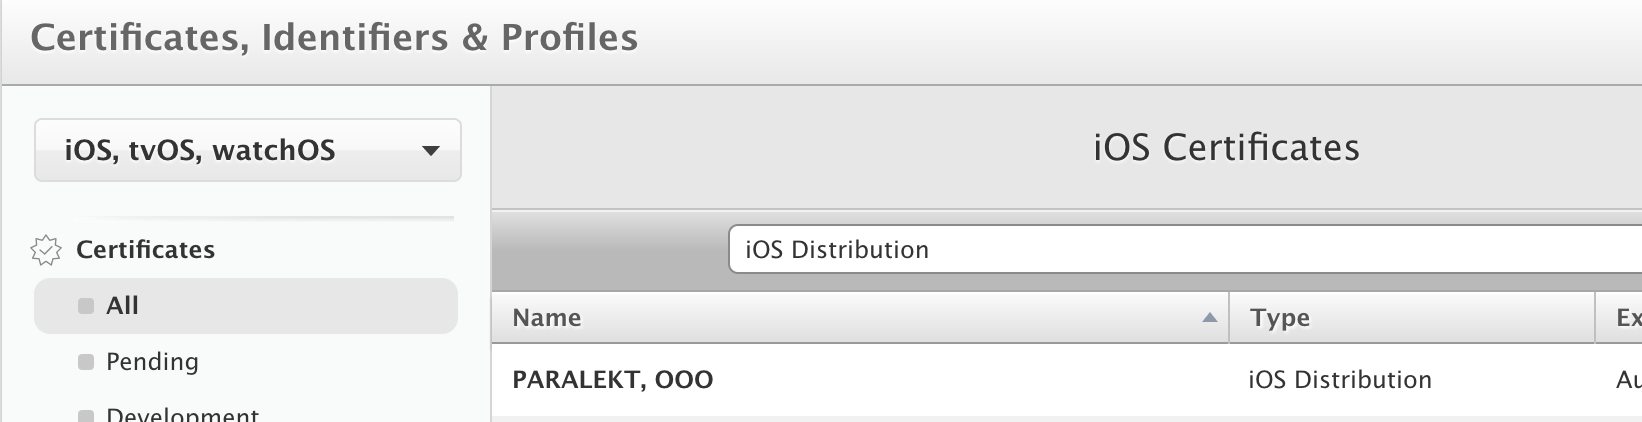
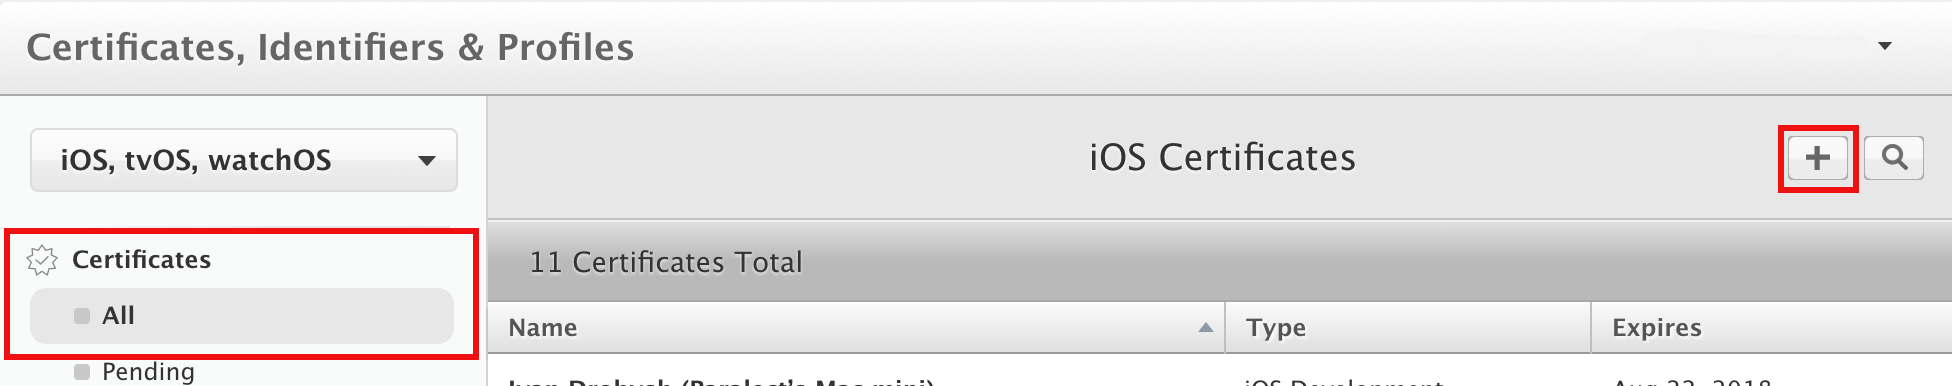
[-] guide for ios deployment

diff --git a/react-native-starter/BITRISE.md b/react-native-starter/BITRISE.md
@@ -1,22 +1,33 @@
 # Continuous Integration using Bitrise
 
-1. Register Bitrise account and login, then add new app and configure it
+Register Bitrise account and login, then add new app and configure it:
+ 1. Select repo you want to sync with bitrise <br />
+ 2. Add Bitrise ssh-key to your github account <br />
+ 3. Choose branch for scanning <br />
+ 4. Pass through repo validation (may skip warnings) <br />
+ 5. Select project build configuration and platform <br />
 
-  1.1. Select repo you want to sync with bitrise <br />
-  1.2. Add Bitrise ssh-key to your github account <br />
-  1.3. Choose branch for scanning <br />
-  1.4. Pass through repo validation (may skip warnings) <br />
-  1.5. Select project build configuration and platform <br />
+## Android
+ 1. Set up your Bitrise deployment workflow
 
-2. Set up your Bitrise deployment workflow
+  1.1. You can find android workflow examples in ``resources`` dir. <br />
+  1.2. You can use Bitrise app signing and deployment for staging (and for Bitrise service testing) because it don't need additional Google Services integration <br />
+  1.3. [Configure auto apk signing](http://devcenter.bitrise.io/android/code-signing/) - upload ``upload-keystore`` to Bitrise and use it as Env-variable. <br />
 
-  2.1. You can find android workflow examples in ``resources`` dir. <br />
-  2.2. You can use Bitrise app signing and deployment for staging (and for Bitrise service testing) because it don't need additional Google Services integration <br />
-  2.3. [Configure auto apk signing](http://devcenter.bitrise.io/android/code-signing/) - upload ``upload-keystore`` to Bitrise and use it as Env-variable. <br />
+ 2. Connect Bitrise building process with Google Play Console for production
 
-3. Connect Bitrise building process with Google Play Console for production
-
-  3.1 Hardest part is setting up `google-play-deploy` step. Here you should [get](https://cloud.google.com/iam/docs/creating-managing-service-account-keys) `service account key` from Google Cloud Platform (use console step way)
+  2.1 Hardest part is setting up `google-play-deploy` step. Here you should [get](https://cloud.google.com/iam/docs/creating-managing-service-account-keys) `service account key` from Google Cloud Platform (use console step way)
   ![](view/gcp.png)
-  3.2 Enable APIs and Services on [this page](https://console.developers.google.com/apis/dashboard) for created project <br />
-  3.3 Get your own `Google Service Account Json Key` and upload it to [Bitrise generic storage](http://devcenter.bitrise.io/tutorials/how-to-use-the-generic-file-storage/) for better privacy and use it in yml as `Bitrise Environment variable`
+  2.2 Enable APIs and Services on [this page](https://console.developers.google.com/apis/dashboard) for created project <br />
+  2.3 Get your own `Google Service Account Json Key` and upload it to [Bitrise generic storage](http://devcenter.bitrise.io/tutorials/how-to-use-the-generic-file-storage/) for better privacy and use it in yml as `Bitrise Environment variable`
+
+## iOS
+ 1. Export your local provisioning profile and identities using [codesigndoc tool](https://github.com/bitrise-tools/codesigndoc)
+ 2. Upload exported provisioning profiles and identities to Bitrise.
+ ![](view/Bitrise_code_sign.png)
+ 3. Set up build workflow. An example for iOS is in resources directory. It requires the following env variables/secrets:
+  - `INFO_PLIST_FILE` - path to your `Info.plist`
+  - `APPLE_TEAM_ID` - ID of your team on [Apple Developer Portal](https://developer.apple.com/account/ios/certificate/)
+  - `ITUNES_APP_ID` - ID of your app from **iTunes Connect**
+  - `ITUNES_USER` - email to login to iTunes Connect
+  - `ITUNES_PASSWORD` - password to login to iTunes Connect

diff --git a/react-native-starter/PUBLISHING.md b/react-native-starter/PUBLISHING.md
@@ -23,17 +23,23 @@ once created keystore you can use it to sign both staging and production builds.
 ![](view/start.png)
 8. That is your trip to publishing app
 
-# App Store publishing
+# App Store/Testflight publishing
 
-**Prerequisites: Apple account participating in Apple Developer Program and itunes connect account.**
-Before publishing to App Store make sure that you have ios provisioning profile created and installed in keychain.
-![](view/iOS_Certificates_-_Apple_Developer.png)
+**Prerequisites: Apple account participating in Apple Developer Program and iTunes Connect account.**
+ 1. At first you have to create an AppId on [Apple Developer Portal](https://developer.apple.com/account/ios/certificate/)
+ ![](view/iOS_App_IDs_-_Apple_Developer.png)
+ 2. Then create an app on [iTunes Connect](https://itunesconnect.apple.com/). Select *Bundle ID* that you've created on previous step (it should be the same as you used in XCode project).
+ ![](view/iTunes_create.png)
+ 3. Create (or import if it's already created for your team) iOS Distribution certificate (click on `plus` and then select `App Store and Ad Hoc`)
+ ![](view/iOS_Certificates_-_Apple_Developer.png)
+ 4. Select your team in XCode (if it's not available try Download All Profiles in Xcode/Preferences/Accounts)
+ ![](view/select_team.png)
+ 5. In Xcode select `Generic iOS Device` and press Product/Archive.
+ 6. Once your binary is ready you will see it in organizer. Press `Upload To App Store`.
+ 7. Check entitlements of your build and click Next.
+ 8. After uploading your build will be processed. You will receive an email when it's ready.
+ 9. You may see Missing Compliance warning on Testflight build page. The build is still not available for testing, just click an answer on pop-up dialog to share it with testers. It can be fixed if set `ITSAppUsesNonExemptEncryption` to `NO` in your `Info.plist` file.
 
-Without review you can add only itunes connect users as testers. To start external testing you have to submit build for Beta App Review (requires demo account if sign-in is required for app).
-
- 1. Select your team in Xcode (if it's not available try Download All Profiles in Xcode/Preferences/Accounts)
- 2. In Xcode select `Generic iOS Device` and press Product/Archive.
- 3. Once your binary is ready you will see it in organizer. Press `Upload To App Store`.
- 4. Check entitlements of your build and click Next.
- 5. After uploading your build will be processed. You will receive an email when it's ready.
- 6. You may see Missing Compliance warning. The build still isn't available for testing, just click an answer on pop-up dialog to share it with testers.
+**NOTES:**
+ - **Without review you can add only iTunes Connect users as testers. To start external testing you have to submit build for Beta App Review (requires demo account if sign-in is required for app).**
+ - **You can't upload build to iTunes without app icons. Make sure you've added [all needed icons](https://developer.apple.com/ios/human-interface-guidelines/icons-and-images/app-icon/). Also you can see a warning if marketing icon (1024pt) is missing - in this case build can be processed by Apple and you can start internal testing but you won't be able to submit it to review.**
